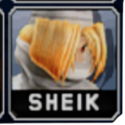
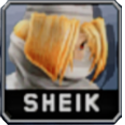
patreon, added state push to places, rounded imgs

diff --git a/src/app/melee/melee.component.ts b/src/app/melee/melee.component.ts
@@ -29,6 +29,7 @@ export class MeleeComponent implements OnInit {
 
   playernums = [1, 2, 3, 4]
   state = {
+    version: "m",
     playerAChars: [],
     playerBChars: [],
     playerCChars: [],
@@ -77,7 +78,7 @@ export class MeleeComponent implements OnInit {
   }
 
   randomFill() {
-
+    PUSH_STATE(this.state)
     this.firstRoll = true;
     this.state.charCount = ((document.getElementById("charCount")) as HTMLSelectElement).selectedIndex + 1; //set char count
     this.state.playerCount = ((document.getElementById("playerCount")) as HTMLSelectElement).selectedIndex + 1; //set the player count
@@ -155,12 +156,14 @@ export class MeleeComponent implements OnInit {
 
       //this.state.overCharCount = true;
     }
+    PUSH_STATE(this.state)
   }
   updateAvailableChars(){
     $('#charcount')
     if(27- this.state.disabledChars.length < this.state.charCount){
       console.log($('#charcount').val())
     }
+    PUSH_STATE(this.state)
   }
   advancePlayer(player: string){
     switch (player) {
@@ -185,6 +188,7 @@ export class MeleeComponent implements OnInit {
           }
         break;
     }
+   PUSH_STATE(this.state)
   }
   random() {
     var min = 0;
@@ -197,9 +201,9 @@ export class MeleeComponent implements OnInit {
     for (let x of this.meleeChars) {
       if (charName == x.name) {
         if (!this.state.disabledChars.includes(x.id)) { //x.name previously
-          if(this.state.charCount + 1 < this.state.disabledChars.length){
-            this.state.charCount -=1;
-          }
+          // if(this.state.charCount + 1 < this.state.disabledChars.length){
+          //   this.state.charCount -=1;
+          // }
           this.state.disabledChars.push(x.id);
           console.log('added ' + x.name + " " + x.id)
           console.log(this.state.disabledChars)
@@ -267,5 +271,6 @@ export class MeleeComponent implements OnInit {
       this.state.playerCShowCount= 30;
       this.state.playerDShowCount= 30;
     }
+    PUSH_STATE(this.state)
   }
 }

diff --git a/src/app/about/about.component.html b/src/app/about/about.component.html
@@ -14,6 +14,8 @@ Here's some changes, and upcoming things
   </s>
 
   <h4>Change Log/Updates</h4>
+  <li><h3>date</h3></li>
+  <li></li>
   <li><h3>9/23/19</h3></li>
   <li>Ultimate is working! <br> <i>there might be some bugs I missed here</i></li>
   <li>Cleaned up some logic in the code, should be a little more efficient</li>
@@ -41,5 +43,4 @@ Here's some changes, and upcoming things
 </ul>
 <h2>Patreon</h2>
 This website does cost me money to keep up every month. While I don't wanna ask anyone for money, <br>
-if you DO wanna help out and contribute to the site, you can here.  <br>
-<a href="https://www.patreon.com/multiman" target="_blank" > <img style="width: 100px; height: 100px" src="./assets/Patreon_Mark_Coral.jpg"  ></a>
+if you <i>do</i> wanna help out and contribute to keeping the site up, you can click on the logo in the top right.  <br>

diff --git a/src/app/melee/melee.component.html b/src/app/melee/melee.component.html
@@ -25,7 +25,7 @@
                 </label>
               </div>
               <br>
-           <select  [(ngModel)]='state.playerCount' style="color: white; background-color :black;  border: thick grey; height: 40; border-radius: 5%; text-align: center; line-height: 20px;  padding-top: 7px ;padding-bottom: 7px;width: 200px" matNativeControl id="playerCount">
+           <select  [(ngModel)]='state.playerCount' (change) = "PUSH_STATE(this.state)" style="color: white; background-color :black;  border: thick grey; height: 40; border-radius: 5%; text-align: center; line-height: 20px;  padding-top: 7px ;padding-bottom: 7px;width: 200px" matNativeControl id="playerCount">
               <option *ngFor="let n of playernums" [value] = "n">{{n}}</option>
             </select>
 

diff --git a/src/app/app.component.html b/src/app/app.component.html
@@ -3,7 +3,13 @@
     <mat-toolbar-row >
       <span style="padding-left: 45%; padding-right: 20%">{{ title }}</span>
       <span class="spacer"></span>
-      <i class="material-icons">sentiment_satisfied_alt</i>
+  <div class="patreon">
+    <a href="https://www.patreon.com/multiman" target="_blank" > <img style="width: 45px; height: 45px; margin-top: 8px" src="./assets/Patreon_Mark_Coral.png"  ></a>
+  </div>
+     
+    
+      
+      <!-- <i class="material-icons">sentiment_satisfied_alt</i> -->
     </mat-toolbar-row>
   </mat-toolbar>
   <mat-tab-group [(selectedIndex)] ="idx" style="background-color: rgb(241, 241, 241)" mat-align-tabs="center">

diff --git a/src/app/melee/melee.component.css b/src/app/melee/melee.component.css
@@ -20,6 +20,8 @@ table{
 img{-webkit-user-drag: none;
     height: 125px;
     width: 125px;
+    cursor: pointer;
+    border-radius: 10px;
 }
 .page{
     overflow:hidden;
@@ -43,14 +45,6 @@ img{-webkit-user-drag: none;
        Every toolbar row uses a flexbox row layout. */
     flex: 1 1 auto;
   }
-
-  img{
-
-	cursor: pointer;
-    /*padding: 10px;*/
-   /* border:1px solid #fff;*/
-  
-}
 
 /* img:hover{
     -webkit-border-radius: 10px;

diff --git a/src/styles.css b/src/styles.css
@@ -15,3 +15,12 @@ body{
     margin: 0;
 }
 html, body { height: 100%; } 
+
+.patreon :hover{
+    -webkit-transform:scale(1); 
+    -moz-transform:scale(1); 
+    -ms-transform:scale(1);
+    -o-transform:scale(1); 
+    -webkit-user-drag: none;
+	cursor: pointer;
+}
